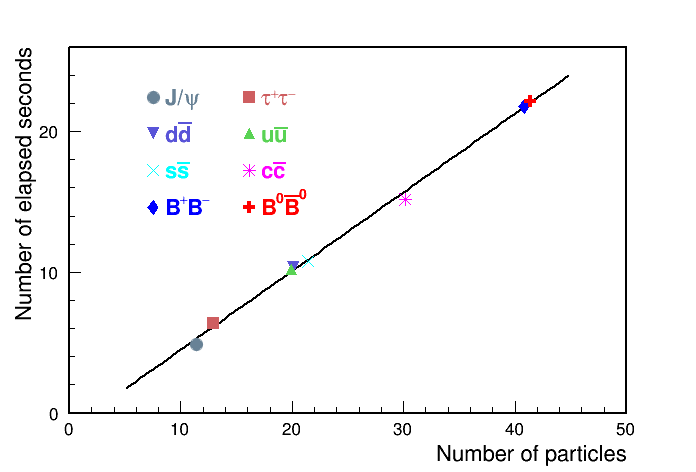
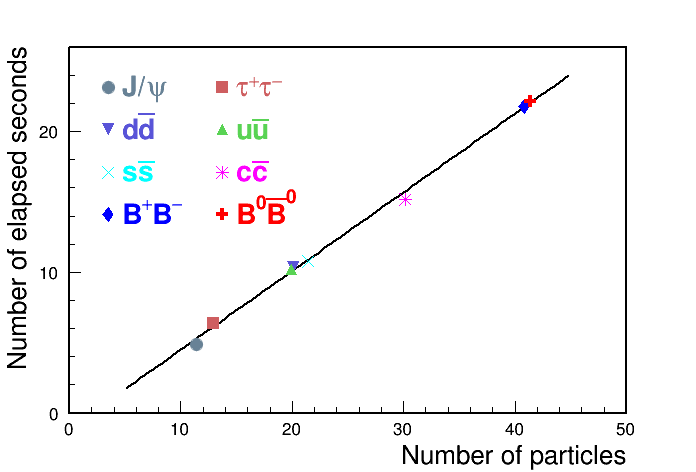
Revise the sizes of legends and axis titles

diff --git a/examples/in_the_paper/fig_04/draw_and_fit_nP_nSec/draw_and_fit_nP_nSec.C b/examples/in_the_paper/fig_04/draw_and_fit_nP_nSec/draw_and_fit_nP_nSec.C
@@ -66,23 +66,24 @@ void draw_and_fit_nP_nSec()
   multigraph->GetXaxis()->SetLimits(0, 50);
   multigraph->GetYaxis()->SetRangeUser(0, 26);
   multigraph->GetXaxis()->SetTitle("Number of particles");
-  multigraph->GetXaxis()->SetTitleSize(0.05);
+  multigraph->GetXaxis()->SetTitleSize(0.06);
   multigraph->GetXaxis()->SetLabelSize(0.04);
+  multigraph->GetXaxis()->SetTitleOffset(0.95);
   multigraph->GetXaxis()->SetNdivisions(505);
   multigraph->GetYaxis()->SetTitle("Number of elapsed seconds");
-  multigraph->GetYaxis()->SetTitleSize(0.05);
+  multigraph->GetYaxis()->SetTitleSize(0.06);
   multigraph->GetYaxis()->SetLabelSize(0.04);
-  multigraph->GetYaxis()->SetTitleOffset(0.8);
+  multigraph->GetYaxis()->SetTitleOffset(0.75);
   multigraph->GetYaxis()->SetNdivisions(503);
 
-  TLegend *legend=new TLegend(0.2025,0.5225,0.4825,0.8325);
+  TLegend *legend=new TLegend(0.135,0.50,0.465,0.86);
   TLegendEntry *legendEntry[8];
   char legendEntryTitle[8][30]={"J/#psi","#tau^{#plus}#tau^{#minus}","d#bar{d}","u#bar{u}","s#bar{s}","c#bar{c}","B^{#plus}B^{#minus}","B^{0}#bar{B}^{0}"};
   for(Int_t i=0;i<8;i++)
     {
       legendEntry[i]=legend->AddEntry(graph[i],legendEntryTitle[i],"P");
       legendEntry[i]->SetTextColor(color[i]);
-      legendEntry[i]->SetTextSize(0.05);
+      legendEntry[i]->SetTextSize(0.065);
     }    
   legend->SetFillColor(kWhite);
   legend->SetBorderSize(0);

diff --git a/examples/in_the_paper/fig_04/draw_and_fit_nEtr_nSec/draw_and_fit_nEtr_nSec.C b/examples/in_the_paper/fig_04/draw_and_fit_nEtr_nSec/draw_and_fit_nEtr_nSec.C
@@ -57,23 +57,24 @@ void draw_and_fit_nEtr_nSec()
   gPad->SetBottomMargin(0.125);
   gPad->SetTopMargin(0.1);
   multigraph->GetXaxis()->SetTitle("Number of processed entries");
-  multigraph->GetXaxis()->SetTitleSize(0.05);
+  multigraph->GetXaxis()->SetTitleSize(0.06);
   multigraph->GetXaxis()->SetLabelSize(0.04);
+  multigraph->GetXaxis()->SetTitleOffset(0.95);
   multigraph->GetYaxis()->SetRangeUser(0, 26);
   multigraph->GetYaxis()->SetTitle("Number of elapsed seconds");
-  multigraph->GetYaxis()->SetTitleSize(0.05);
+  multigraph->GetYaxis()->SetTitleSize(0.06);
   multigraph->GetYaxis()->SetLabelSize(0.04);
-  multigraph->GetYaxis()->SetTitleOffset(0.8);
+  multigraph->GetYaxis()->SetTitleOffset(0.75);
   multigraph->GetYaxis()->SetNdivisions(503);
 
-  TLegend *legend=new TLegend(0.2025,0.5325,0.4825,0.8425);
+  TLegend *legend=new TLegend(0.1525,0.4825,0.4825,0.8425);
   TLegendEntry *legendEntry[8];
   char legendEntryTitle[8][30]={"J/#psi","#tau^{#plus}#tau^{#minus}","d#bar{d}","u#bar{u}","s#bar{s}","c#bar{c}","B^{#plus}B^{#minus}","B^{0}#bar{B}^{0}"};
   for(Int_t i=0;i<8;i++)
     {
       legendEntry[i]=legend->AddEntry(graph[i],legendEntryTitle[i],"P");
       legendEntry[i]->SetTextColor(color[i]);
-      legendEntry[i]->SetTextSize(0.05);
+      legendEntry[i]->SetTextSize(0.065);
     }    
   legend->SetFillColor(kWhite);
   legend->SetBorderSize(0);
